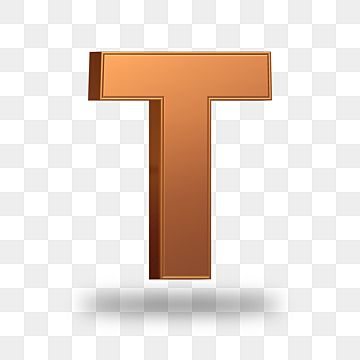
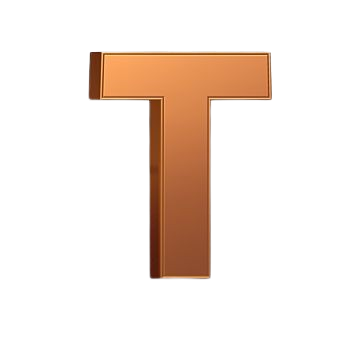
Changes All

Changed region(s): [[0.1833, 0.1222, 0.7944, 0.9167]]

diff --git a/src/pages/CreateSurgery.jsx b/src/pages/CreateSurgery.jsx
@@ -17,7 +17,8 @@ const CreateSurgery = () => {
   const [hospital_number, setHospital_number] = useState("");
   const [phone_number, setPhone_number] = useState("");
   const [occupation, setOccupation] = useState("");
-  const [sports_involvement, setSports_involvement] = useState("");
+  // const [sports_involvement, setSports_involvement] = useState("");
+  const [MoI, setMoI] = useState("");
   const [completedIndex, setCompletedIndex] = useState(0);
   const [error, setError] = useState("");
 
@@ -344,8 +345,8 @@ const CreateSurgery = () => {
               {fieldErrors.occupation && <p className="text-red-500 text-sm mt-1">{fieldErrors.occupation}</p>}
             </div>
             <div className="flex flex-col">
-              <label htmlFor="sports_involvement" className="text-lg font-medium text-gray-700">Sports Involvement</label>
-              <input
+              <label htmlFor="sports_involvement" className="text-lg font-medium text-gray-700">Mechanism of Injury</label>
+              {/* <input
                 type="text"
                 value={sports_involvement}
                 onChange={(e) => setSports_involvement(e.target.value)}
@@ -353,7 +354,22 @@ const CreateSurgery = () => {
                 name="sports_involvement"
                 className="mt-2 p-4 border border-gray-300 rounded-lg focus:outline-none focus:ring-2 focus:ring-indigo-500"
               />
-              {fieldErrors.sports_involvement && <p className="text-red-500 text-sm mt-1">{fieldErrors.sports_involvement}</p>}
+              {fieldErrors.sports_involvement && <p className="text-red-500 text-sm mt-1">{fieldErrors.sports_involvement}</p>} */}
+              {/* dropdown */}
+              <select
+                name="moi"
+                value={MoI}
+                onChange={(e) => setMoI(e.target.value)}
+                id="occupation"
+                className="mt-2 p-4 border border-gray-300 rounded-lg focus:outline-none focus:ring-2 focus:ring-indigo-500"
+              >
+                <option value="">Select Mechanism of Injury</option>
+                <option value="RTA">RTA</option>
+                <option value="fall">Fall</option>
+                <option value="sports">Sports</option>
+                <option value="others">Others</option>
+              </select>
+          {/* Switch case */}
             </div>
           </div>
 

diff --git a/src/pages/Home.jsx b/src/pages/Home.jsx
@@ -13,8 +13,7 @@ const Home = () => {
       <h2 className="text-blue-500 text-2xl font-semibold mb-2">
       Trauma Registry
       </h2>
-      <h1 className="text-4xl font-bold text-gray-800 mb-4">Trauma Registry</h1>
-      <p className="text-gray-500 text-lg mb-6">Arthroscopy Society of Nepal</p>
+      <h1 className="text-blue-500 text-2xl font-semibold mb-2">Nepal Orthopedic Association</h1>
       <div className="space-x-4">
         {isAuthenticated ? (
           <Link to="/dashboard" className="underline">

diff --git a/src/components/Sidebar.jsx b/src/components/Sidebar.jsx
@@ -35,7 +35,7 @@ const Sidebar = () => {
   };
 
   return (
-    <div className="min-h-screen w-[350px] p-6 bg-gray-300 text-black">
+    <div className="min-h-[100vh] w-[350px] p-6 bg-gray-300 text-black">
       <h1 onClick={() => navigate("/")} className="text-2xl font-semibold text-gray-800 mb-6 cursor-pointer">Trauma Registry</h1>
 
       <div